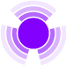
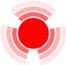
update map

diff --git a/public/javascripts/markerclusterer_packed.js b/public/javascripts/markerclusterer_packed.js
@@ -1,1 +1,1 @@
-eval(function(p,a,c,k,e,r){e=function(c){return(c<a?'':e(parseInt(c/a)))+((c=c%a)>35?String.fromCharCode(c+29):c.toString(36))};if(!''.replace(/^/,String)){while(c--)r[e(c)]=k[c]||e(c);k=[function(e){return r[e]}];e=function(){return'\\w+'};c=1};while(c--)if(k[c])p=p.replace(new RegExp('\\b'+e(c)+'\\b','g'),k[c]);return p}('7 37(n,v,w){4 o=[];4 m=n;4 t=z;4 q=3;4 r=20;4 x=[36,30,2R,2E,2z];4 s=[];4 u=[];4 p=z;4 i=0;A(i=1;i<=5;++i){s.O({\'18\':"1V://35-31-2Z.2W.2Q/2K/2C/2B/2y/m"+i+".2u",\'S\':x[i-1],\'Z\':x[i-1]})}6(F w==="X"&&w!==z){6(F w.1f==="13"&&w.1f>0){r=w.1f}6(F w.1y==="13"){t=w.1y}6(F w.14==="X"&&w.14!==z&&w.14.9!==0){s=w.14}}7 1t(){6(u.9===0){8}4 a=[];A(i=0;i<u.9;++i){q.Q(u[i],G,z,z,G)}u=a}3.1s=7(){8 s};3.12=7(){A(4 i=0;i<o.9;++i){6(F o[i]!=="1Y"&&o[i]!==z){o[i].12()}}o=[];u=[];17.1W(p)};7 1p(a){8 m.1b().34(a.1o())}7 1S(a){4 c=a.9;4 b=[];A(4 i=c-1;i>=0;--i){q.Q(a[i].C,G,a[i].I,b,G)}1t()}3.Q=7(g,j,b,h,a){6(a!==G){6(!1p(g)){u.O(g);8}}4 f=b;4 d=h;4 e=m.M(g.1o());6(F f!=="2A"){f=T}6(F d!=="X"||d===z){d=o}4 k=d.9;4 c=z;A(4 i=k-1;i>=0;i--){c=d[i];4 l=c.1L();6(l===z){1I}l=m.M(l);6(e.x>=l.x-r&&e.x<=l.x+r&&e.y>=l.y-r&&e.y<=l.y+r){c.Q({\'I\':f,\'C\':g});6(!j){c.L()}8}}c=R 1J(3,n);c.Q({\'I\':f,\'C\':g});6(!j){c.L()}d.O(c);6(d!==o){o.O(c)}};3.1C=7(a){A(4 i=0;i<o.9;++i){6(o[i].1K(a)){o[i].L();8}}};3.L=7(){4 a=3.1j();A(4 i=0;i<a.9;++i){a[i].L(G)}};3.1j=7(){4 b=[];4 a=m.1b();A(4 i=0;i<o.9;i++){6(o[i].1n(a)){b.O(o[i])}}8 b};3.1N=7(){8 t};3.1M=7(){8 m};3.1e=7(){8 r};3.Y=7(){4 a=0;A(4 i=0;i<o.9;++i){a+=o[i].Y()}8 a};3.29=7(){8 o.9};3.1A=7(){4 d=3.1j();4 e=[];4 f=0;A(4 i=0;i<d.9;++i){4 c=d[i];4 b=c.1x();6(b===z){1I}4 a=m.W();6(a!==b){4 h=c.1w();A(4 j=0;j<h.9;++j){4 g={\'I\':T,\'C\':h[j].C};e.O(g)}c.12();f++;A(j=0;j<o.9;++j){6(c===o[j]){o.1v(j,1)}}}}1S(e);3.L()};3.1u=7(a){A(4 i=0;i<a.9;++i){3.Q(a[i],G)}3.L()};6(F v==="X"&&v!==z){3.1u(v)}p=17.27(m,"26",7(){q.1A()})}7 1J(h){4 o=z;4 n=[];4 m=h;4 j=h.1M();4 l=z;4 k=j.W();3.1w=7(){8 n};3.1n=7(c){6(o===z){8 T}6(!c){c=j.1b()}4 g=j.M(c.25());4 a=j.M(c.24());4 b=j.M(o);4 e=G;4 f=h.1e();6(k!==j.W()){4 d=j.W()-k;f=23.22(2,d)*f}6(a.x!==g.x&&(b.x+f<g.x||b.x-f>a.x)){e=T}6(e&&(b.y+f<a.y||b.y-f>g.y)){e=T}8 e};3.1L=7(){8 o};3.Q=7(a){6(o===z){o=a.C.1o()}n.O(a)};3.1C=7(a){A(4 i=0;i<n.9;++i){6(a===n[i].C){6(n[i].I){j.1c(n[i].C)}n.1v(i,1);8 G}}8 T};3.1x=7(){8 k};3.L=7(b){6(!b&&!3.1n()){8}k=j.W();4 i=0;4 a=h.1N();6(a===z){a=j.21().1Z()}6(k>=a||3.Y()===1){A(i=0;i<n.9;++i){6(n[i].I){6(n[i].C.11()){n[i].C.1a()}}N{j.1r(n[i].C);n[i].I=G}}6(l!==z){l.1k()}}N{A(i=0;i<n.9;++i){6(n[i].I&&(!n[i].C.11())){n[i].C.1k()}}6(l===z){l=R E(o,3.Y(),m.1s(),m.1e());j.1r(l)}N{6(l.11()){l.1a()}l.1q(G)}}};3.12=7(){6(l!==z){j.1c(l)}A(4 i=0;i<n.9;++i){6(n[i].I){j.1c(n[i].C)}}n=[]};3.Y=7(){8 n.9}}7 E(a,c,d,b){4 f=0;4 e=c;1X(e!==0){e=V(e/10,10);f++}6(d.9<f){f=d.9}3.16=d[f-1].18;3.H=d[f-1].S;3.P=d[f-1].Z;3.19=d[f-1].1U;3.D=d[f-1].32;3.15=a;3.1T=f;3.1R=d;3.1m=c;3.1l=b}E.J=R 2Y();E.J.2X=7(i){3.1P=i;4 j=1O.2V("2U");4 h=3.15;4 f=i.M(h);f.x-=V(3.P/2,10);f.y-=V(3.H/2,10);4 g="";6(1O.2T){g=\'2S:2P:2O.2M.2L(2J=2I,2H="\'+3.16+\'");\'}N{g="2G:18("+3.16+");"}6(F 3.D==="X"){6(F 3.D[0]==="13"&&3.D[0]>0&&3.D[0]<3.H){g+=\'S:\'+(3.H-3.D[0])+\'B;1H-1g:\'+3.D[0]+\'B;\'}N{g+=\'S:\'+3.H+\'B;1G-S:\'+3.H+\'B;\'}6(F 3.D[1]==="13"&&3.D[1]>0&&3.D[1]<3.P){g+=\'Z:\'+(3.P-3.D[1])+\'B;1H-1i:\'+3.D[1]+\'B;\'}N{g+=\'Z:\'+3.P+\'B;1F-1E:1D;\'}}N{g+=\'S:\'+3.H+\'B;1G-S:\'+3.H+\'B;\';g+=\'Z:\'+3.P+\'B;1F-1E:1D;\'}4 k=3.19?3.19:\'2x\';j.U.2w=g+\'2v:2t;1g:\'+f.y+"B;1i:"+f.x+"B;2D:"+k+";2s:2F;1h-2r:2q;"+\'1h-2p:2o,2n-2m;1h-2N:2l\';j.2k=3.1m;i.2j(2i).2h(j);4 e=3.1l;17.2g(j,"2f",7(){4 a=i.M(h);4 d=R 1Q(a.x-e,a.y+e);d=i.1B(d);4 b=R 1Q(a.x+e,a.y-e);b=i.1B(b);4 c=i.2e(R 2d(d,b),i.2c());i.2b(h,c)});3.K=j};E.J.1K=7(){3.K.2a.33(3.K)};E.J.28=7(){8 R E(3.15,3.1T,3.1m,3.1R,3.1l)};E.J.1q=7(a){6(!a){8}4 b=3.1P.M(3.15);b.x-=V(3.P/2,10);b.y-=V(3.H/2,10);3.K.U.1g=b.y+"B";3.K.U.1i=b.x+"B"};E.J.1k=7(){3.K.U.1d="1z"};E.J.1a=7(){3.K.U.1d=""};E.J.11=7(){8 3.K.U.1d==="1z"};',62,194,'|||this|var||if|function|return|length||||||||||||||||||||||||||null|for|px|marker|anchor_|ClusterMarker_|typeof|true|height_|isAdded|prototype|div_|redraw_|fromLatLngToDivPixel|else|push|width_|addMarker|new|height|false|style|parseInt|getZoom|object|getTotalMarkers|width||isHidden|clearMarkers|number|styles|latlng_|url_|GEvent|url|textColor_|show|getBounds|removeOverlay|display|getGridSize_|gridSize|top|font|left|getClustersInViewport_|hide|padding_|text_|isInBounds|getLatLng|isMarkerInViewport_|redraw|addOverlay|getStyles_|addLeftMarkers_|addMarkers|splice|getMarkers|getCurrentZoom|maxZoom|none|resetViewport|fromDivPixelToLatLng|removeMarker|center|align|text|line|padding|continue|Cluster|remove|getCenter|getMap_|getMaxZoom_|document|map_|GPoint|styles_|reAddMarkers_|index_|opt_textColor|http|removeListener|while|undefined|getMaximumResolution|60|getCurrentMapType|pow|Math|getNorthEast|getSouthWest|moveend|addListener|copy|getTotalClusters|parentNode|setCenter|getSize|GLatLngBounds|getBoundsZoomLevel|click|addDomListener|appendChild|G_MAP_MAP_PANE|getPane|innerHTML|bold|serif|sans|Arial|family|11px|size|position|pointer|png|cursor|cssText|black|images|90|boolean|markerclusterer|trunk|color|78|absolute|background|src|scale|sizingMethod|svn|AlphaImageLoader|Microsoft|weight|DXImageTransform|progid|com|66|filter|all|div|createElement|googlecode|initialize|GOverlay|library|56|utility|opt_anchor|removeChild|containsLatLng|gmaps|53|MarkerClusterer'.split('|'),0,{}))
+eval(function(p,a,c,k,e,d){e=function(c){return(c<a?'':e(parseInt(c/a)))+((c=c%a)>35?String.fromCharCode(c+29):c.toString(36))};if(!''.replace(/^/,String)){while(c--){d[e(c)]=k[c]||e(c)}k=[function(e){return d[e]}];e=function(){return'\\w+'};c=1};while(c--){if(k[c]){p=p.replace(new RegExp('\\b'+e(c)+'\\b','g'),k[c])}}return p}('7 2z(p,1e,r){4 d=[];4 9=p;4 1w=f;4 1f=3;4 R=2y;4 1y=[2E,2G,2s,2v,2x];4 X=[];4 Q=[];4 1m=f;4 i=0;h(i=1;i<=5;++i){X.O({\'1j\':"/2w/m"+i+".2u",\'L\':1y[i-1],\'15\':1y[i-1]})}6(u r==="17"&&r!==f){6(u r.B==="1h"&&r.B>0){R=r.B}6(u r.2g==="1h"){1w=r.2g}6(u r.o==="17"&&r.o!==f&&r.o.b!==0){X=r.o}}7 2b(){6(Q.b===0){a}4 2i=[];h(i=0;i<Q.b;++i){1f.N(Q[i],s,f,f,s)}Q=2i}3.1T=7(){a X};3.1d=7(){h(4 i=0;i<d.b;++i){6(u d[i]!=="2H"&&d[i]!==f){d[i].1d()}}d=[];Q=[];1F.2D(1m)};7 2d(8){a 9.1o().2C(8.1k())}7 1M(T){4 2k=T.b;4 g=[];h(4 i=2k-1;i>=0;--i){1f.N(T[i].8,s,T[i].l,g,s)}2b()}3.N=7(8,1r,2j,2m,2c){6(2c!==s){6(!2d(8)){Q.O(8);a}}4 l=2j;4 g=2m;4 e=9.I(8.1k());6(u l!=="2A"){l=Y}6(u g!=="17"||g===f){g=d}4 b=g.b;4 k=f;h(4 i=b-1;i>=0;i--){k=g[i];4 A=k.24();6(A===f){2e}A=9.I(A);6(e.x>=A.x-R&&e.x<=A.x+R&&e.y>=A.y-R&&e.y<=A.y+R){k.N({\'l\':l,\'8\':8});6(!1r){k.F()}a}}k=U 20(3,p);k.N({\'l\':l,\'8\':8});6(!1r){k.F()}g.O(k);6(g!==d){d.O(k)}};3.26=7(8){h(4 i=0;i<d.b;++i){6(d[i].1Z(8)){d[i].F();a}}};3.F=7(){4 g=3.1n();h(4 i=0;i<g.b;++i){g[i].F(s)}};3.1n=7(){4 g=[];4 2n=9.1o();h(4 i=0;i<d.b;i++){6(d[i].1x(2n)){g.O(d[i])}}a g};3.1K=7(){a 1w};3.21=7(){a 9};3.1s=7(){a R};3.11=7(){4 1l=0;h(4 i=0;i<d.b;++i){1l+=d[i].11()}a 1l};3.2t=7(){a d.b};3.1Y=7(){4 g=3.1n();4 1v=[];4 1Q=0;h(4 i=0;i<g.b;++i){4 k=g[i];4 1p=k.1W();6(1p===f){2e}4 29=9.19();6(29!==1p){4 1u=k.22();h(4 j=0;j<1u.b;++j){4 1V={\'l\':Y,\'8\':1u[j].8};1v.O(1V)}k.1d();1Q++;h(j=0;j<d.b;++j){6(k===d[j]){d.25(j,1)}}}}1M(1v);3.F()};3.1X=7(T){h(4 i=0;i<T.b;++i){3.N(T[i],s)}3.F()};6(u 1e==="17"&&1e!==f){3.1X(1e)}1m=1F.2q(9,"2p",7(){1f.1Y()})}7 20(18){4 M=f;4 c=[];4 1t=18;4 9=18.21();4 v=f;4 W=9.19();3.22=7(){a c};3.1x=7(14){6(M===f){a Y}6(!14){14=9.1o()}4 E=9.I(14.2Q());4 H=9.I(14.3k());4 12=9.I(M);4 16=s;4 B=18.1s();6(W!==9.19()){4 23=9.19()-W;B=3o.3a(2,23)*B}6(H.x!==E.x&&(12.x+B<E.x||12.x-B>H.x)){16=Y}6(16&&(12.y+B<H.y||12.y-B>E.y)){16=Y}a 16};3.24=7(){a M};3.N=7(8){6(M===f){M=8.8.1k()}c.O(8)};3.26=7(8){h(4 i=0;i<c.b;++i){6(8===c[i].8){6(c[i].l){9.1q(c[i].8)}c.25(i,1);a s}}a Y};3.1W=7(){a W};3.F=7(1O){6(!1O&&!3.1x()){a}W=9.19();4 i=0;4 1g=18.1K();6(1g===f){1g=9.3b().3c()}6(W>=1g||3.11()===1){h(i=0;i<c.b;++i){6(c[i].l){6(c[i].8.1b()){c[i].8.1C()}}K{9.1S(c[i].8);c[i].l=s}}6(v!==f){v.1A()}}K{h(i=0;i<c.b;++i){6(c[i].l&&(!c[i].8.1b())){c[i].8.1A()}}6(v===f){v=U t(M,3.11(),1t.1T(),1t.1s());9.1S(v)}K{6(v.1b()){v.1C()}v.1U(s)}}};3.1d=7(){6(v!==f){9.1q(v)}h(4 i=0;i<c.b;++i){6(c[i].l){9.1q(c[i].8)}}c=[]};3.11=7(){a c.b}}7 t(Z,1z,o,C){4 z=0;4 1c=1z;2O(1c!==0){1c=13(1c/10,10);z++}6(o.b<z){z=o.b}3.1i=o[z-1].1j;3.D=o[z-1].L;3.S=o[z-1].15;3.1B=o[z-1].2L;3.q=o[z-1].2M;3.1a=Z;3.1N=z;3.X=o;3.1G=1z;3.1H=C}t.J=U 2U();t.J.2V=7(p){3.9=p;4 P=2h.33("P");4 Z=3.1a;4 e=p.I(Z);e.x-=13(3.S/2,10);e.y-=13(3.D/2,10);4 w="";6(2h.34){w=\'35:36:32.31.2X(2W=2Y,2Z="\'+3.1i+\'");\'}K{w="30:1j("+3.1i+");"}6(u 3.q==="17"){6(u 3.q[0]==="1h"&&3.q[0]>0&&3.q[0]<3.D){w+=\'L:\'+(3.D-3.q[0])+\'n;C-1J:\'+3.q[0]+\'n;\'}K{w+=\'L:\'+3.D+\'n;1L-L:\'+3.D+\'n;\'}6(u 3.q[1]==="1h"&&3.q[1]>0&&3.q[1]<3.S){w+=\'15:\'+(3.S-3.q[1])+\'n;C-1D:\'+3.q[1]+\'n;\'}K{w+=\'15:\'+3.S+\'n;1P-1R:A;\'}}K{w+=\'L:\'+3.D+\'n;1L-L:\'+3.D+\'n;\';w+=\'15:\'+3.S+\'n;1P-1R:A;\'}4 2o=3.1B?3.1B:\'2N\';P.V.2J=w+\'2K:2P;1J:\'+e.y+"n;1D:"+e.x+"n;2T:"+2o+";2S:2R;1E-38:37;"+\'1E-3m:3q,3s-3r;1E-3p:3j\';P.3i=3.1G;p.39(3d).3e(P);4 C=3.1H;1F.3h(P,"3g",7(){4 e=p.I(Z);4 E=U 27(e.x-C,e.y+C);E=p.28(E);4 H=U 27(e.x+C,e.y-C);H=p.28(H);4 2l=p.3f(U 3n(E,H),p.2I());p.3l(Z,2l)});3.G=P};t.J.1Z=7(){3.G.2r.2F(3.G)};t.J.2B=7(){a U t(3.1a,3.1N,3.1G,3.X,3.1H)};t.J.1U=7(2a){6(!2a){a}4 e=3.9.I(3.1a);e.x-=13(3.S/2,10);e.y-=13(3.D/2,10);3.G.V.1J=e.y+"n";3.G.V.1D=e.x+"n"};t.J.1A=7(){3.G.V.1I="2f"};t.J.1C=7(){3.G.V.1I=""};t.J.1b=7(){a 3.G.V.1I==="2f"};',62,215,'|||this|var||if|function|marker|map_|return|length|markers_|clusters_|pos|null|clusters|for|||cluster|isAdded||px|styles|map|anchor_|opt_opts|true|ClusterMarker_|typeof|clusterMarker_|mstyle|||index|center|gridSize|padding|height_|sw|redraw_|div_|ne|fromLatLngToDivPixel|prototype|else|height|center_|addMarker|push|div|leftMarkers_|gridSize_|width_|markers|new|style|zoom_|styles_|false|latlng||getTotalMarkers|centerxy|parseInt|bounds|width|inViewport|object|markerClusterer|getZoom|latlng_|isHidden|dv|clearMarkers|opt_markers|me_|mz|number|url_|url|getLatLng|result|mcfn_|getClustersInViewport_|getBounds|oldZoom|removeOverlay|opt_isNodraw|getGridSize_|markerClusterer_|mks|tmpMarkers|maxZoom_|isInBounds|sizes|count|hide|textColor_|show|left|font|GEvent|text_|padding_|display|top|getMaxZoom_|line|reAddMarkers_|index_|isForce|text|removed|align|addOverlay|getStyles_|redraw|newMarker|getCurrentZoom|addMarkers|resetViewport|remove|Cluster|getMap_|getMarkers|dl|getCenter|splice|removeMarker|GPoint|fromDivPixelToLatLng|curZoom|force|addLeftMarkers_|opt_isNoCheck|isMarkerInViewport_|continue|none|maxZoom|document|leftMarkers|opt_isAdded|len|zoom|opt_clusters|curBounds|txtColor|moveend|addListener|parentNode|66|getTotalClusters|png|78|images|90|60|MarkerClusterer|boolean|copy|containsLatLng|removeListener|53|removeChild|56|undefined|getSize|cssText|cursor|opt_textColor|opt_anchor|black|while|pointer|getSouthWest|absolute|position|color|GOverlay|initialize|sizingMethod|AlphaImageLoader|scale|src|background|Microsoft|DXImageTransform|createElement|all|filter|progid|11px|size|getPane|pow|getCurrentMapType|getMaximumResolution|G_MAP_MAP_PANE|appendChild|getBoundsZoomLevel|click|addDomListener|innerHTML|bold|getNorthEast|setCenter|family|GLatLngBounds|Math|weight|Arial|serif|sans'.split('|'),0,{}))
